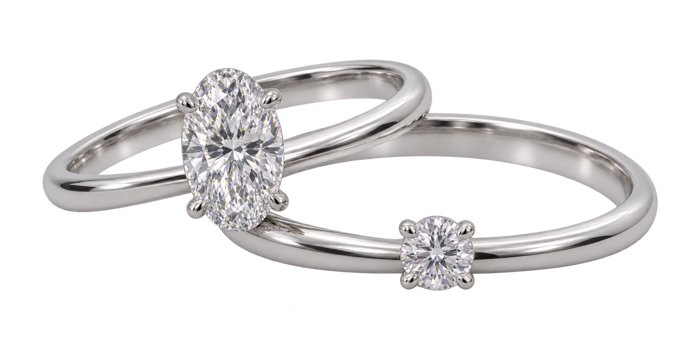
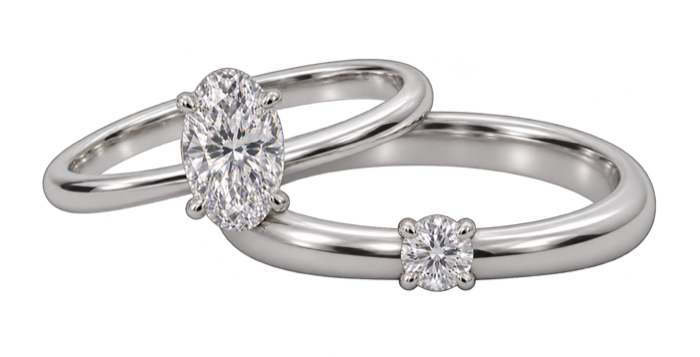
Refine invitation heading, masculine white-gold ring and flush envelope label

Changed region(s): [[0.06, 0.1541, 0.96, 0.8319], [0.15, 0.4314, 0.18, 0.493]]

diff --git a/styles.css b/styles.css
@@ -156,8 +156,9 @@ body{font-family:var(--font-body);font-size:16px;line-height:1.7;color:#4d5b45}
 @media(max-width:600px){.heading h1{font-size:clamp(17px,4.7vw,19px)}.heading .names .given-name{font-size:clamp(24px,7.3vw,29px);white-space:nowrap}}
 
 /* First names and realistic white-gold rings. */
+.invitation-intro{max-width:720px;margin:0 auto 16px;font:400 clamp(17px,1.8vw,21px)/1.9 var(--font-body);color:#66725b;text-wrap:balance;overflow-wrap:break-word}
 .heading .names{grid-template-columns:minmax(0,1fr) 124px minmax(0,1fr);gap:20px;width:min(100%,720px);margin:0 auto;line-height:1.6}
 .heading .names .given-name{font-size:clamp(30px,3.6vw,42px);font-weight:400;line-height:1.6;white-space:nowrap}
 .heading .wedding-rings{display:block;width:124px;height:auto;object-fit:contain;justify-self:center;filter:drop-shadow(0 2px 2px #575e4c18)}
-@media(max-width:600px){.heading .names{grid-template-columns:minmax(0,1fr) 88px minmax(0,1fr);gap:8px}.heading .names .given-name{font-size:clamp(23px,7vw,29px)}.heading .wedding-rings{width:88px}}
-@media(max-height:620px) and (orientation:landscape){.heading .names{grid-template-columns:minmax(0,1fr) 64px minmax(0,1fr);gap:5px}.heading .names .given-name{font-size:clamp(19px,3vw,25px)}.heading .wedding-rings{width:64px}}
+@media(max-width:600px){.invitation-intro{max-width:360px;margin-bottom:14px;font-size:16px;line-height:1.85}.heading .names{grid-template-columns:minmax(0,1fr) 88px minmax(0,1fr);gap:8px}.heading .names .given-name{font-size:clamp(23px,7vw,29px)}.heading .wedding-rings{width:88px}}
+@media(max-height:620px) and (orientation:landscape){.invitation-intro{margin-bottom:12px;font-size:15px;line-height:1.8}.heading .names{grid-template-columns:minmax(0,1fr) 64px minmax(0,1fr);gap:5px}.heading .names .given-name{font-size:clamp(19px,3vw,25px)}.heading .wedding-rings{width:64px}}

diff --git a/index.html b/index.html
@@ -11,9 +11,9 @@
   <link rel="preload" href="assets/card-front.jpg" as="image">
   <link rel="preload" href="assets/fonts/prompt/prompt-thai-400.woff2" as="font" type="font/woff2" crossorigin>
   <link rel="preload" href="assets/fonts/prompt/prompt-latin-400.woff2" as="font" type="font/woff2" crossorigin>
-  <link rel="stylesheet" href="styles.css?v=007f723401">
-  <link rel="stylesheet" href="envelope.css?v=df07c7f1a1">
-  <script src="app.js?v=b9506e3d5e" defer></script>
+  <link rel="stylesheet" href="styles.css?v=63f64419b849">
+  <link rel="stylesheet" href="envelope.css?v=ff18279dd8f2">
+  <script src="app.js?v=b9506e3d5e72" defer></script>
   <script src="gift-details.js" defer></script>
   <script src="gifts.js" defer></script>
 </head>
@@ -21,9 +21,10 @@
   <main>
   <div class="invitation" id="invitation" data-state="closed">
     <header class="heading">
+      <p class="invitation-intro">ขอเรียนเชิญท่านผู้ทรงเกียรติร่วมเป็นสักขีพยานในพิธีมงคลสมรส</p>
       <h1 class="names" aria-label="เบญจพร และ ดิศดนัย">
         <span class="person-name given-name">เบญจพร</span>
-        <img class="wedding-rings" src="assets/wedding-rings-white-gold.png" width="700" height="358" alt="" draggable="false">
+        <img class="wedding-rings" src="assets/wedding-rings-white-gold.png?v=9ac28a88f17d" width="700" height="357" alt="" draggable="false">
         <span class="person-name given-name">ดิศดนัย</span>
       </h1>
     </header>

diff --git a/envelope.css b/envelope.css
@@ -32,7 +32,7 @@
   box-shadow:inset 0 0 0 1px #66705028,inset 0 -2px 3px #4350351c,0 18px 28px #403b282a;
 }
 .envelope-label {
-  position:absolute;left:7.5%;top:50%;transform:translateY(-50%);
+  position:absolute;left:0;top:50%;transform:translateY(-50%);
   width:56.24297%;height:auto;aspect-ratio:20/7;object-fit:contain;
   display:block;pointer-events:none;user-select:none;box-shadow:0 1px 2px #3f462015;
 }

diff --git a/README.md b/README.md
@@ -4,9 +4,9 @@ A static, responsive wedding invitation with a laurel-green envelope and a portr
 
 The two supplied 1462 × 2048 JPEGs are copied byte-for-byte into `assets/card-front.jpg` and `assets/card-back.jpg`. CSS `object-fit: contain` preserves the complete original artwork without cropping, retouching, or re-encoding. Their near-5:7 ratio is fitted within an exact 5:7 card. The interface scales for screens; 5 × 7 inches describes the card proportions, not guaranteed physical display size. At 5 × 7 inches, source resolution is approximately 292 ppi.
 
-The header shows only **เบญจพร** and **ดิศดนัย**, separated by `assets/wedding-rings-white-gold.png`: white-gold rings with a larger oval solitaire referencing 1.5 ct and a smaller round solitaire referencing 0.40 ct. Their relative sizes are illustrative, not physical gemstone measurements. The date and venue appear in Thai.
+The header opens with **ขอเรียนเชิญท่านผู้ทรงเกียรติร่วมเป็นสักขีพยานในพิธีมงคลสมรส**, followed by the first names **เบญจพร** and **ดิศดนัย**, separated by `assets/wedding-rings-white-gold.png`: white-gold rings with a larger oval solitaire referencing 1.5 ct and a smaller round solitaire referencing 0.40 ct. Their relative sizes are illustrative, not physical gemstone measurements. The date and venue appear in Thai.
 
-`assets/envelope-web.jpg` supplies the approved sealed front. The plain reverse displays the unmodified `assets/envelope-label.png` on the left: `left: 7.5%`, vertically centered at `top: 50%`. Its 20:7 ratio and 56.24297% envelope width represent a 10 × 3.5 cm label relative to a horizontal 7 × 5 inch envelope; the screen scales both together.
+`assets/envelope-web.jpg` supplies the approved sealed front. The plain reverse displays the unmodified `assets/envelope-label.png` flush with the left edge: `left: 0`, vertically centered at `top: 50%`. Its 20:7 ratio and 56.24297% envelope width represent a 10 × 3.5 cm label relative to a horizontal 7 × 5 inch envelope; the screen scales both together.
 
 Horizontal dragging preserves vertical page scrolling and pinch zoom. Accessible flip/open buttons support keyboard activation; left/right arrows turn the focused closed envelope, and Escape cancels a drag. Reduced-motion preferences shorten the transitions. Compact screens can scroll vertically, and enlarged-image dialogs restore focus when closed. There are no third-party scripts, analytics, or runtime dependencies.
 
